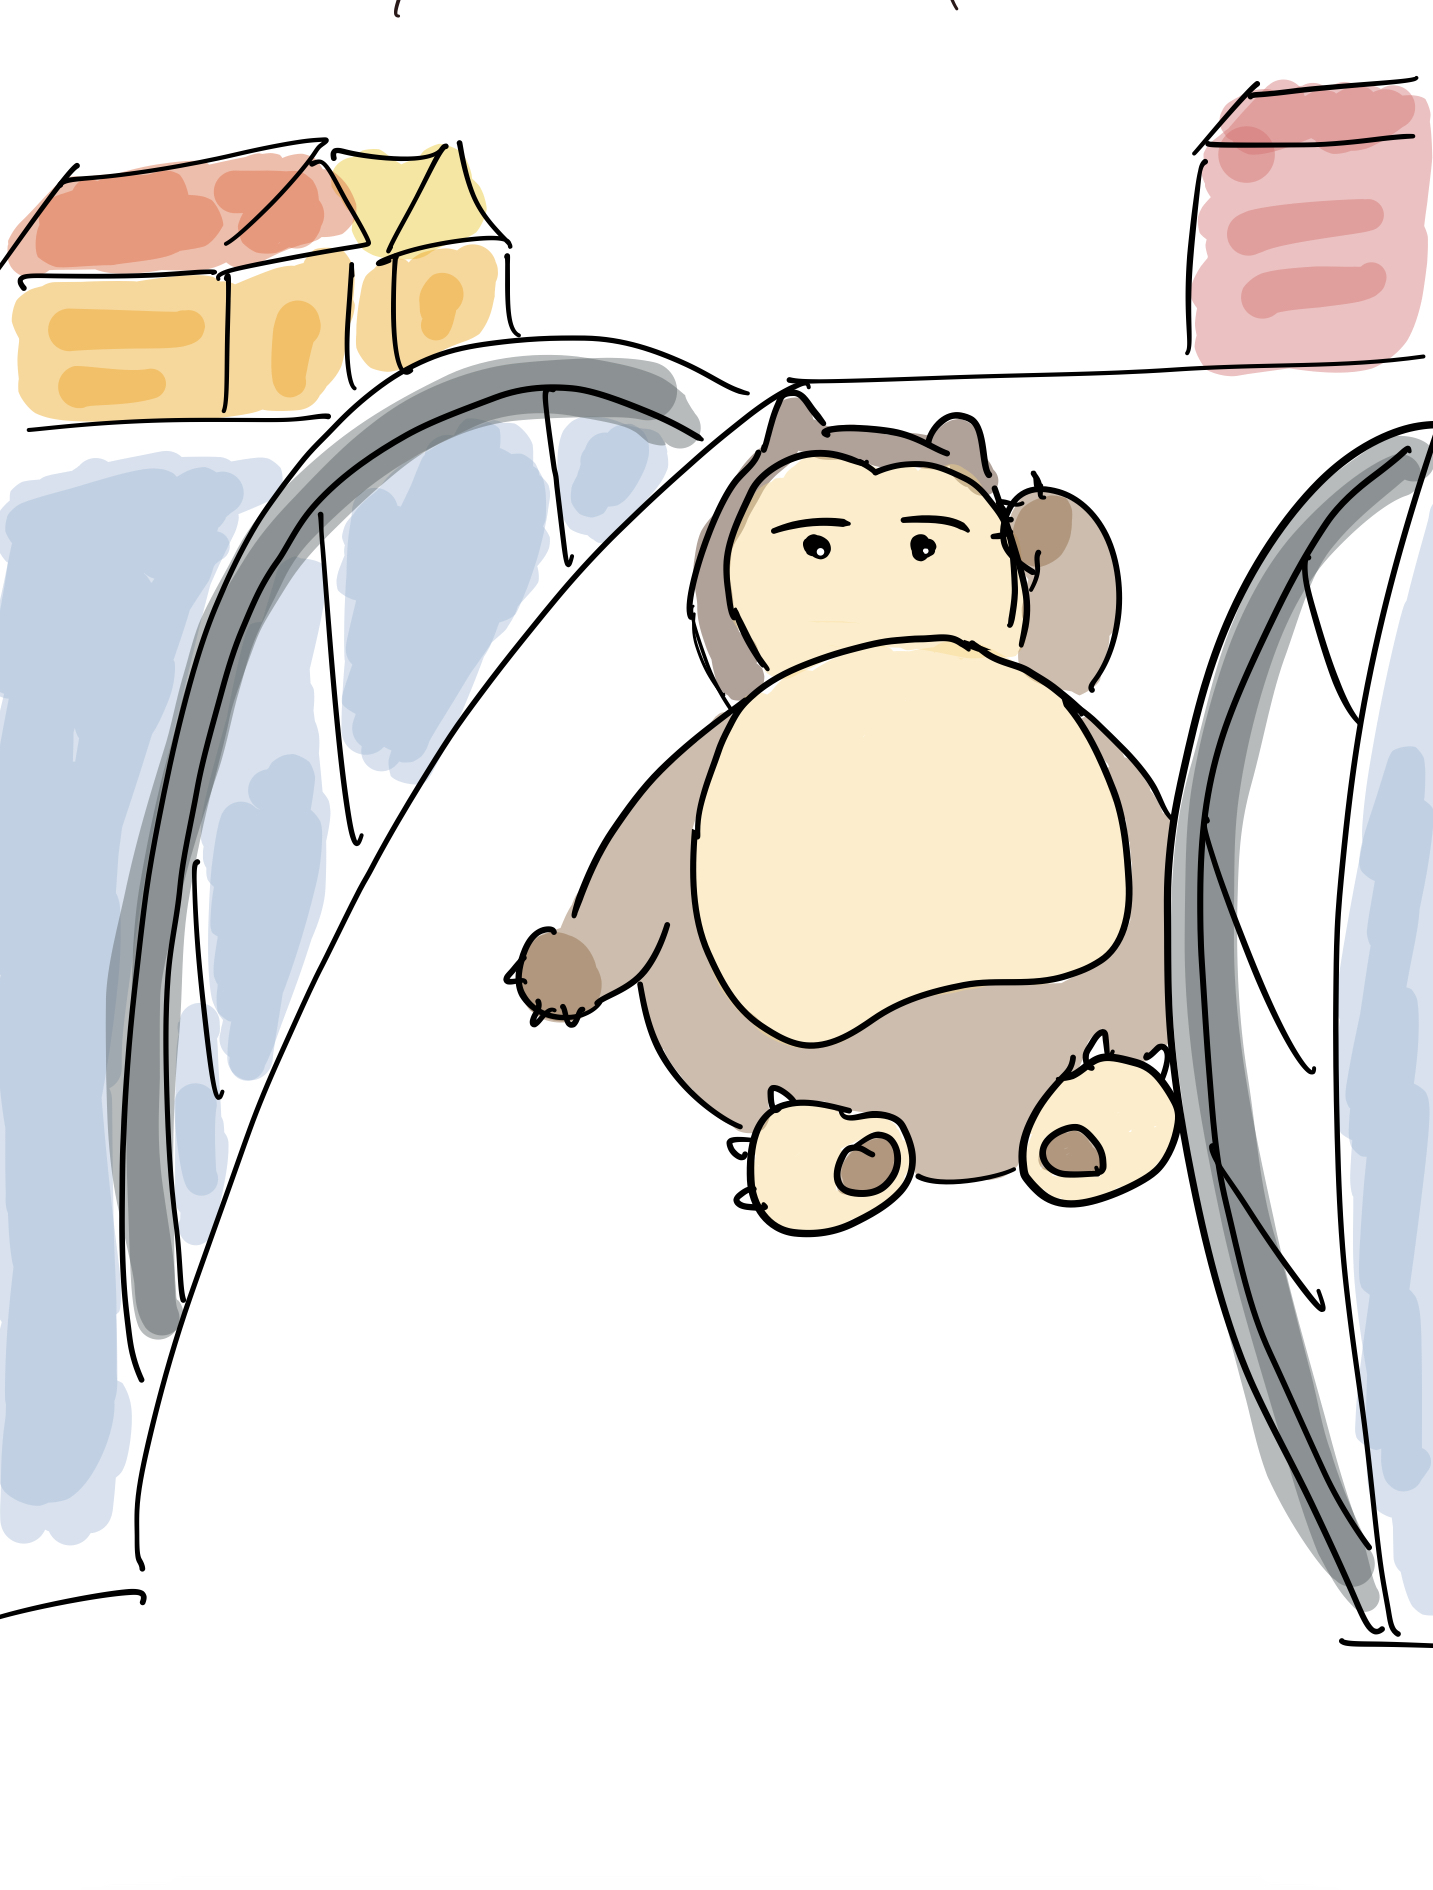
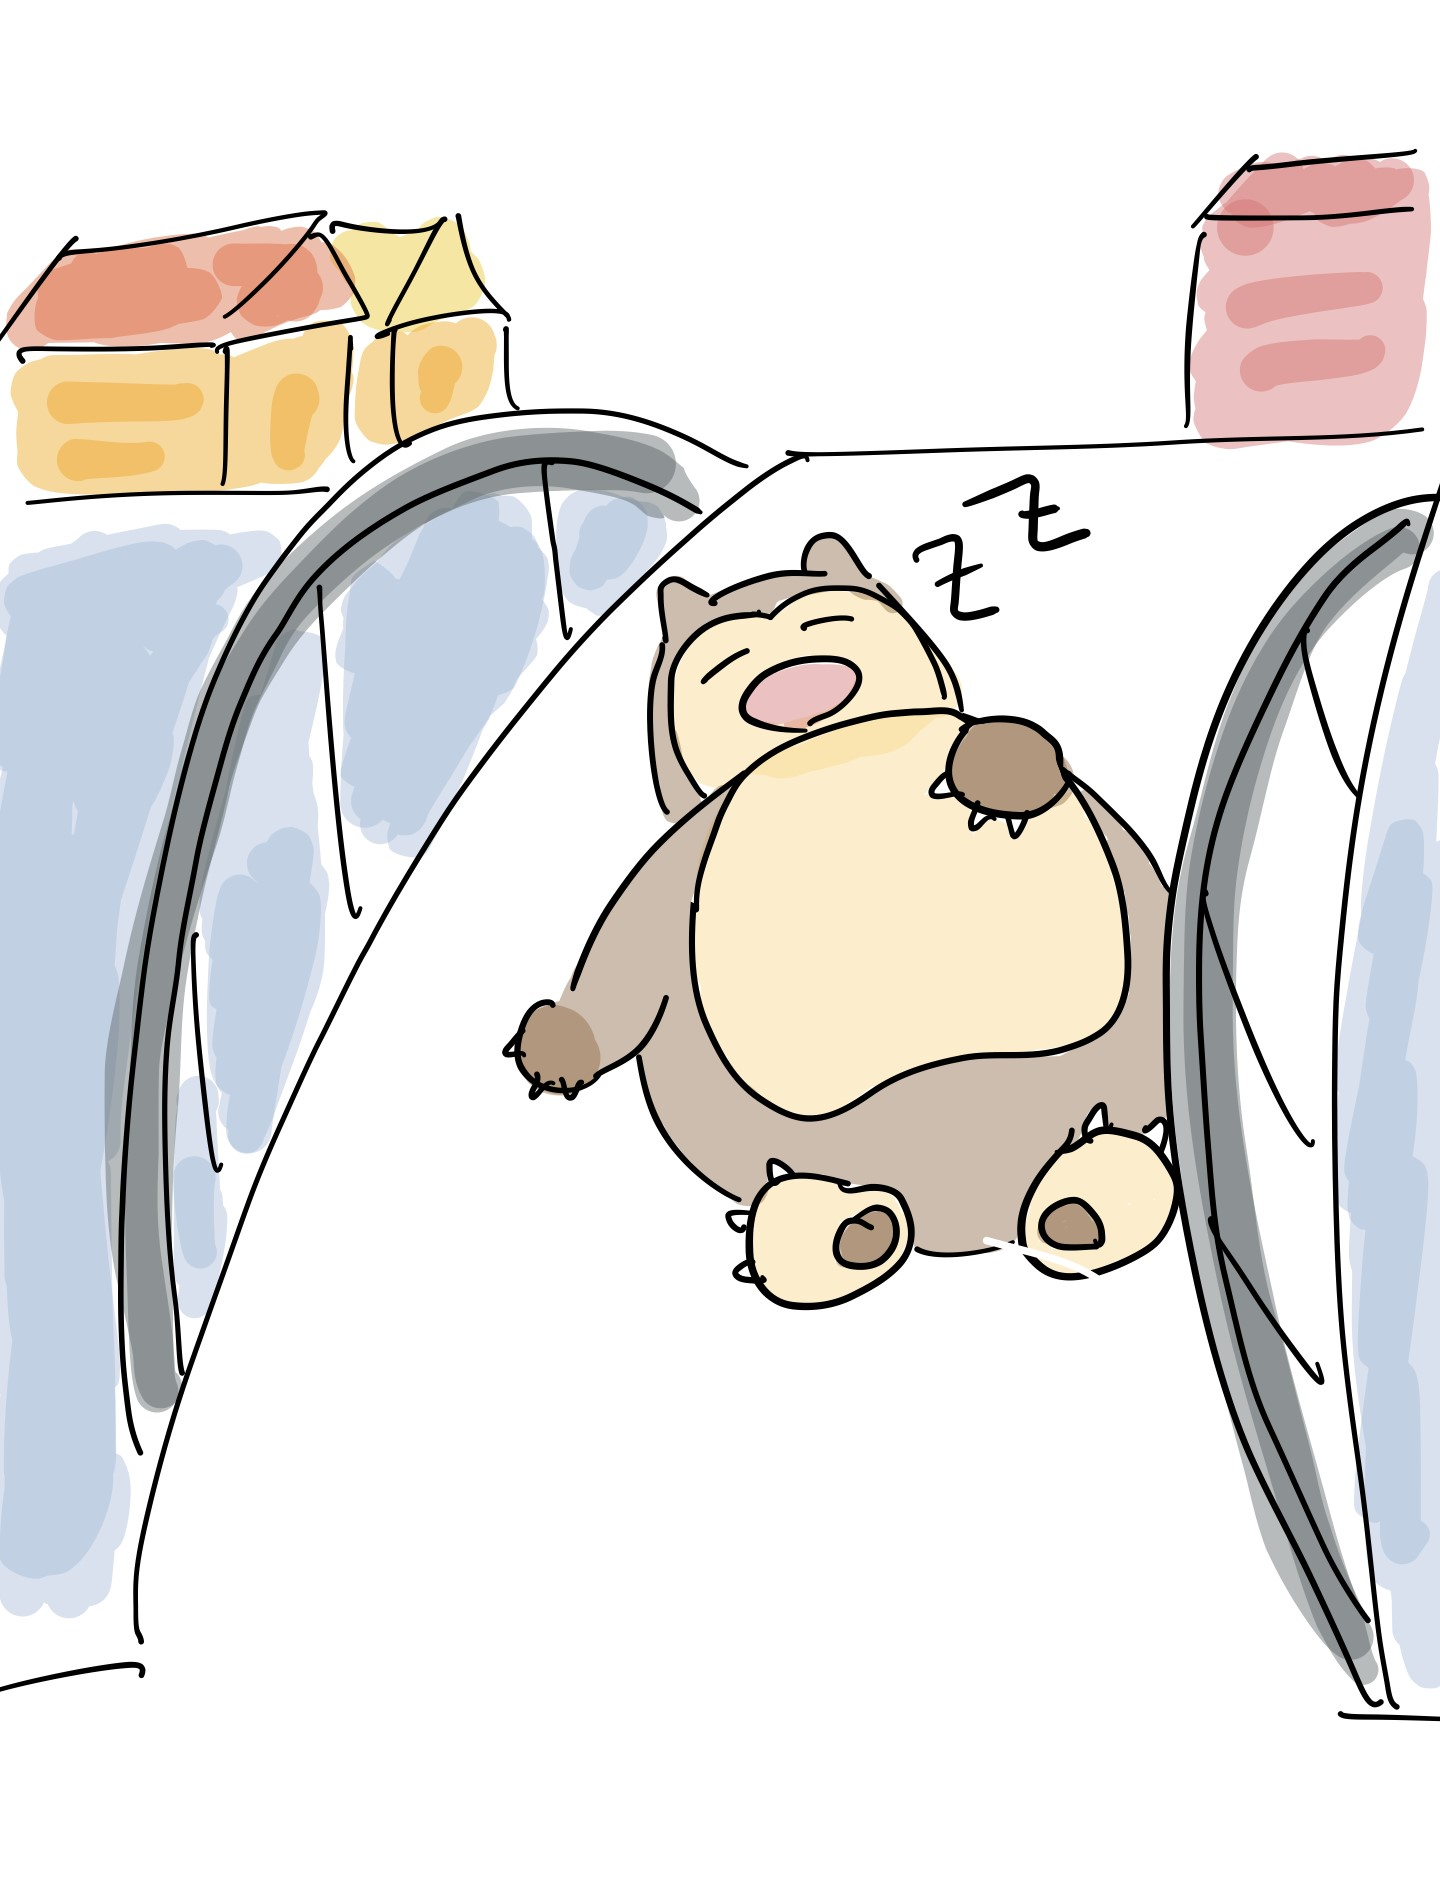
S03P23D105-2 | main-3d

Changed region(s): [[0.0, 0.0312, 1.0, 0.937]]

diff --git a/airang-front/src/views/MainPage.vue b/airang-front/src/views/MainPage.vue
@@ -1,40 +1,42 @@
 <template>
 	<section>
 		<div class="main-wrap">
-			<div class="main">
-				<div class="main-img">
-					<img
-						src="@/assets/images/character/nukkied_arang1.png"
-						class="arang alone"
-						alt="아랑이1"
-					/>
+			<div class="main-board">
+				<div class="main">
+					<div class="main-img">
+						<img
+							src="@/assets/images/character/nukkied_arang1.png"
+							class="arang alone"
+							alt="아랑이1"
+						/>
+					</div>
+					<div class="main-description">
+						<p>내가 주인공?!</p>
+					</div>
 				</div>
-				<div class="main-description">
-					<p>내가 주인공?!</p>
+				<div class="main">
+					<div class="main-img">
+						<img
+							src="@/assets/images/character/nukkied_arang2.png"
+							class="arang"
+							alt="아랑이2"
+						/>
+					</div>
+					<div class="main-description">
+						<p>선택가능</p>
+					</div>
 				</div>
-			</div>
-			<div class="main">
-				<div class="main-img">
-					<img
-						src="@/assets/images/character/nukkied_arang2.png"
-						class="arang"
-						alt="아랑이2"
-					/>
-				</div>
-				<div class="main-description">
-					<p>선택가능</p>
-				</div>
-			</div>
-			<div class="main">
-				<div class="main-img">
-					<img
-						src="@/assets/images/character/nukkied_arang3.png"
-						class="arang"
-						alt="아랑이3"
-					/>
-				</div>
-				<div class="main-description">
-					<p>멀티 엔딩</p>
+				<div class="main">
+					<div class="main-img">
+						<img
+							src="@/assets/images/character/nukkied_arang3.png"
+							class="arang"
+							alt="아랑이3"
+						/>
+					</div>
+					<div class="main-description">
+						<p>멀티 엔딩</p>
+					</div>
 				</div>
 			</div>
 		</div>
@@ -54,18 +56,34 @@ export default {};
 	align-items: center;
 	flex-wrap: wrap;
 	margin-top: 100px;
-	.main-img {
-		.arang {
-			width: 300px;
-			border-radius: 80px;
+	perspective: 1000px;
+	.main-board {
+		width: 85%;
+		height: 80%;
+		padding: 100px 30px;
+		display: flex;
+		justify-content: center;
+		align-items: center;
+		flex-wrap: wrap;
+		box-shadow: 3px 3px 10px rgba(27, 27, 27, 0.3);
+		transform-style: preserve-3d;
+		transform: rotateX(65deg);
+		.main-img {
+			transform-style: preserve-3d;
+			.arang {
+				width: 250px;
+				transform-style: preserve-3d;
+				transform: translateY(-150px) rotateX(-85deg);
+				box-shadow: 3px 3px 10px rgba(27, 27, 27, 0.3);
+			}
+			.alone {
+				width: 100px;
+			}
 		}
-		.alone {
-			width: 100px;
+		.main-description {
+			margin-top: 10px;
+			text-align: center;
 		}
-	}
-	.main-description {
-		margin-top: 10px;
-		text-align: center;
 	}
 }
 </style>
